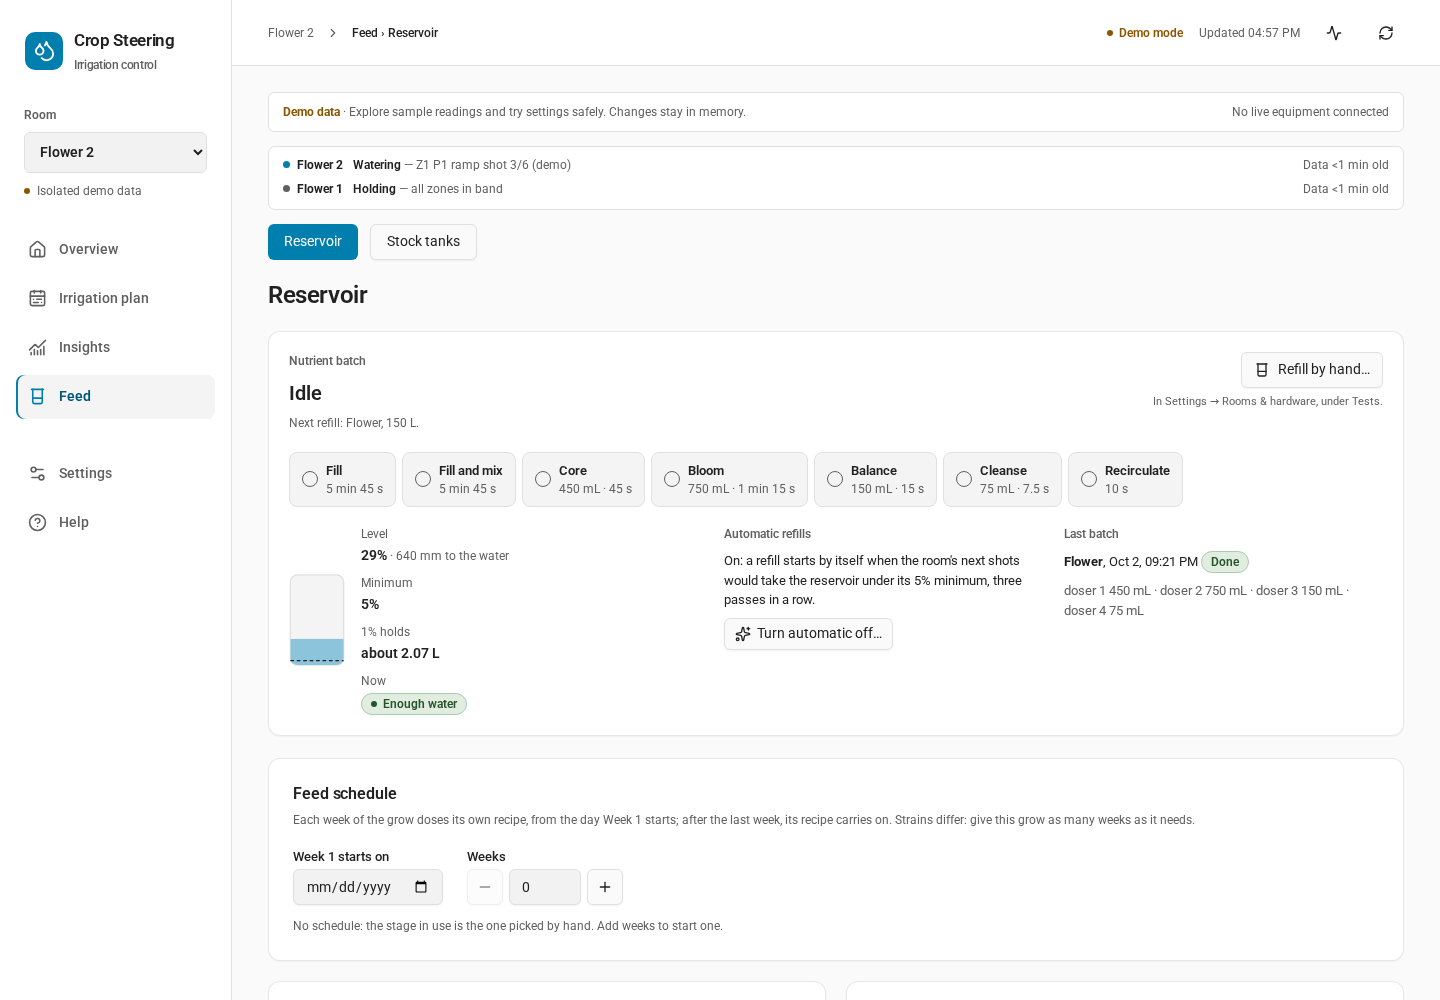
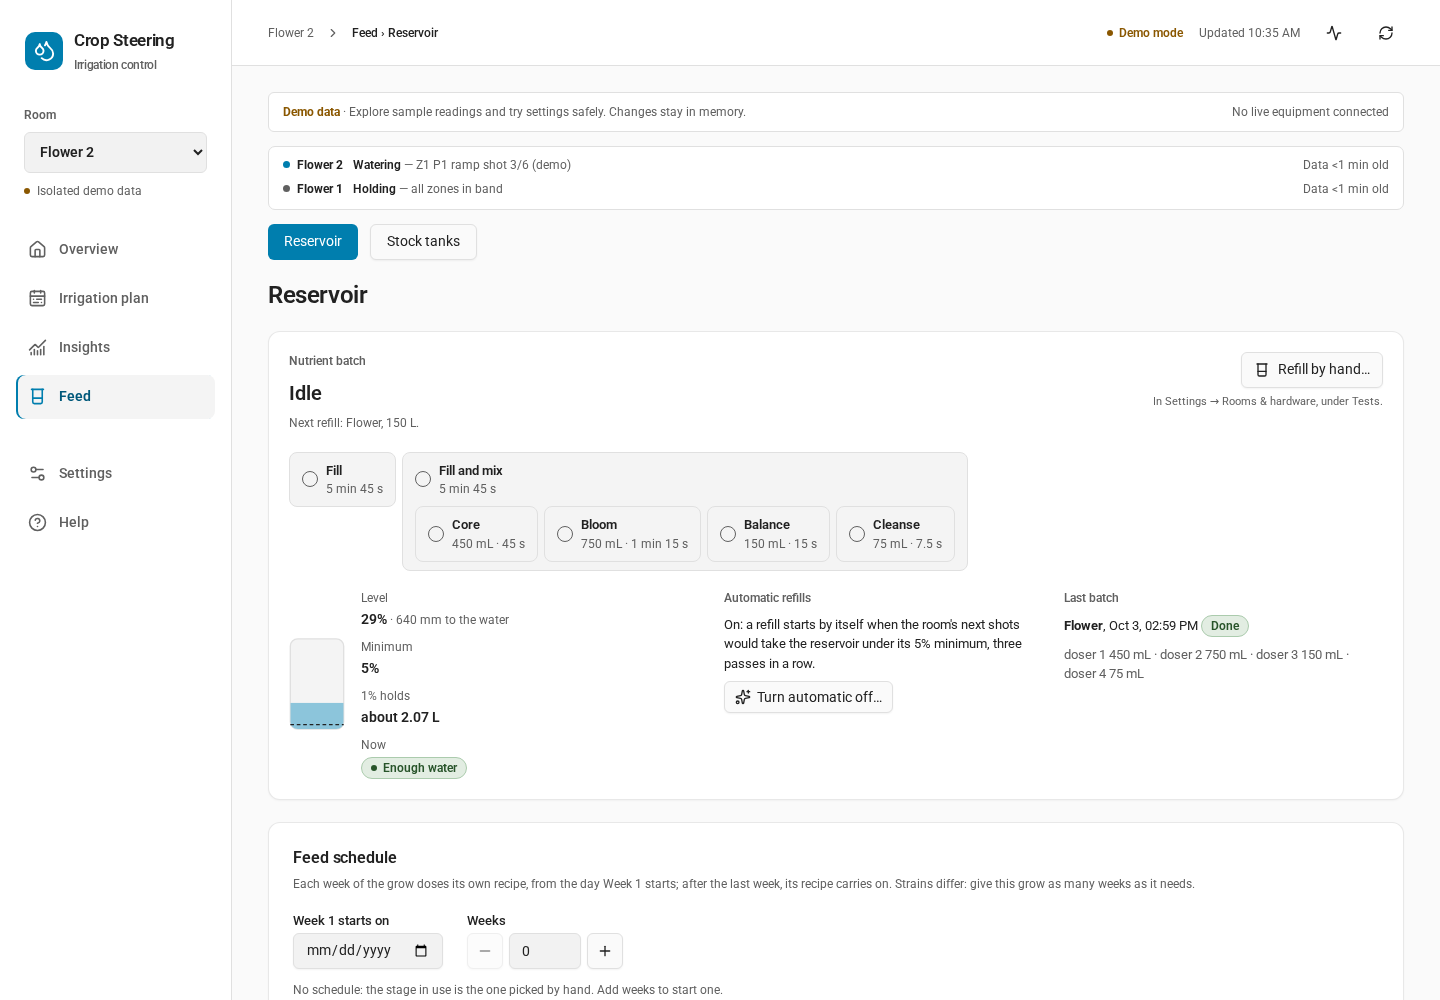
docs: the doses go in while the reservoir fills

diff --git a/docs/USER_GUIDE.md b/docs/USER_GUIDE.md
@@ -174,13 +174,13 @@ At the bottom of **Settings → Rooms & hardware**, **Tests** checks that a room
 **Feed → Reservoir** runs a room's nutrient batches: the controller app refills the room's reservoir with fresh water, mixes it and doses each nutrient in turn, and keeps it from running dry. Each room has its own reservoir and dosers. The tab shows once the room has a reservoir mapped.
 
 1. In **Settings → Rooms & hardware**, map the room's **Reservoir & dosers**: the level sensor (an ultrasonic sensor on the lid, reading the distance down to the water), the fresh-water solenoid, the recirculation solenoid and each doser's power switch, up to six. The room's pump mixes the batch.
-2. On **Reservoir**, set the **batch**: how long the fresh water runs (**Fresh-water fill**, for example 11 min 30 s), the litres that fill adds (**Fill litres**, for example 145 L: the doses are worked out for these, since what is left in the reservoir is already mixed), the level sensor's readings when the reservoir is full and when it is empty (**Distance when full** and **Distance when empty**; **Use the reading now** takes the current one), the **Minimum level** it keeps (5% to start with; 0 turns it off), a pause between dosers and how long it recirculates after the last dose (10 s to start with). The two distances make the level a percentage, worked out as an ESPHome template would: 100% at the distance when full, 0% at the distance when empty.
+2. On **Reservoir**, set the **batch**: how long the fresh water runs (**Fresh-water fill**, for example 11 min 30 s), the litres that fill adds (**Fill litres**, for example 145 L: the doses are worked out for these, since what is left in the reservoir is already mixed), the level sensor's readings when the reservoir is full and when it is empty (**Distance when full** and **Distance when empty**; **Use the reading now** takes the current one), the **Minimum level** it keeps (5% to start with; 0 turns it off), a pause before the first doser and between dosers, and the least it recirculates after the last dose (10 s to start with). The two distances make the level a percentage, worked out as an ESPHome template would: 100% at the distance when full, 0% at the distance when empty.
 3. Under **Dosers**, each doser's flow, 600 mL/min unless you change it, is only used to work out how long it runs for its dose; its speed and calibration stay on the doser.
 4. Add a **feed recipe** for each growth stage. Give each doser the nutrient on it in that stage and its **parts**, the ratio off the nutrient chart: Athena Flower is 3 Core : 5 Bloom : 1 Balance : 0.5 Cleanse. The **mL per litre per part** is the strength; **1 part** is the same set as mL of nutrient in each fill (240 mL in a 145 L fill is 1.655 mL per litre per part), and each sets the other. Each doser then gives its parts × 1 part, to the whole mL: at 1 mL per litre per part in 150 L, Bloom at 5 parts is 750 mL and runs 75 s at 600 mL/min. Each recipe doses in its own order, so a stage can use a doser the others leave out (Fade's doser in place of Core's): drag a row by its handle, or use its arrows; the number beside it is its turn. A new recipe starts with the nutrients and the order the last one had, since the bottles usually stay on their dosers. A recipe coming to more than 60 mL per litre is refused as a likely typo.
 5. Give the grow a **feed schedule**: the day **Week 1 starts on**, how many **weeks** it has (strains differ: a week or three of veg, eight or ten of flower) and each week's recipe, for example Week 1 Vege, Weeks 2–6 Bloom, Weeks 7–8 Fade. The stage in use then changes by itself at midnight as each week starts, and the next refill doses that week's recipe (what is already in the reservoir is not touched). After the last week, its recipe carries on. **Save**.
 6. Without a schedule, choose the **stage in use** by hand. With one running, a stage picked by hand (here, or in Home Assistant's select, which an automation or a dashboard card can change) holds only until the schedule's next week starts; the page says until when. If you don't want the scheduled recipe, remove the schedule: the stage in use stays what it was, picked by hand from then on.
 
-A refill runs: fresh water for its fill time; half-way through, once the level shows it is filling, the recirculation solenoid opens and the pump starts; when the fresh water stops each doser runs for its dose, one after another, a pause apart; then it recirculates a little longer, and the pump stops before the recirculation line closes. The page shows each step as it happens, with the time left, the dose in progress and what the last batch gave, and the level with what 1% of the reservoir holds, which each refill teaches (its fill litres over how far the level rose).
+A refill runs: fresh water for its fill time; half-way through, once the level shows it is filling, the recirculation solenoid opens and the pump starts; a pause later, while the fresh water still runs, each doser runs for its dose, one after another, a pause apart; the tank keeps circulating until the fill time ends, and at least the recirculation time after the last dose; then the pump stops before the recirculation line closes. When the doses fit in the fill's second half, the whole refill takes its fill time. When they do not, the rest go in after the fresh water stops, and the page says so. The page shows each step as it happens, with the time left, the dose in progress and what the last batch gave, and the level with what 1% of the reservoir holds, which each refill teaches (its fill litres over how far the level rose).
 
 - **The minimum.** No shot takes the reservoir under its minimum: a pump that runs it dry loses its prime. With **automatic refills** on, the controller plans ahead: once the room's next round of shots (every zone's next shot, sized by its phase: the next, bigger, ramp shot in P1, P2's maintenance shot once the ramp is done) would take it under the minimum, a refill starts, between shots, after three passes in a row (one bad echo starts nothing). A shot that still would not fit waits for it. Without automatic refills, watering is held there and a notice says so (CS-704) until the reservoir reads enough again. Before the first refill has shown what 1% holds, it goes by the reading alone: under the minimum.
 - **Refill by hand…** opens **Tests** (above), where **Test refill** asks for one; the controller app starts it at its next pass, within a minute, or says why it cannot. A refill must fit: once a refill has shown what 1% holds, the level plus what the fill adds must stay under 100%; before that, one asked for by hand starts only from 10% (or the minimum, if higher). **Run anyway** starts one you have checked fits. A request the app first sees more than 30 minutes later (it was stopped) is not acted on.

diff --git a/docs/ENTITIES.md b/docs/ENTITIES.md
@@ -173,7 +173,7 @@ for that zone. (3 zones × 24 = 72 entities on a 3-zone system.)
 | `p2_vwc_threshold_adjusted` | % | P2 threshold after EC-ratio adjustment. |
 | `stock_low` | - | How many of the room's stock tanks are at or below their low mark (0 when none). Attribute `tanks`: each tank's `name`, `level_l`, `capacity_l`, `percent`, `low_l`, `dose_ml` (what one batch takes now: what the feed recipe in use gives from its doser; 0 on none), `doser` (the Reservoir doser it is on, or null), `batches_left` and `low`. Attribute `last_batch`: the newest batch counted. The tanks are kept by the integration (Feed → Stock tanks, or the `stock_get`, `stock_save` and `stock_refill` services): each is its name, capacity, level, low mark and doser. A tank on a Reservoir doser loses what that doser gave in each batch the controller mixes; one on none changes only when it is refilled or its level is set. Automate a phone alert on it going above 0. |
 | `feed_plan` | - | What the room's next nutrient batch runs, from the Reservoir page: the stage's recipe name, or `none`. Attributes: `stage`, `stage_id`, `fill_s`, `batch_l` (the litres the fill adds), `full_mm` and `empty_mm` (the level sensor's distance to the water when full and when empty; 0 = not set), `min_pct` (the minimum the reservoir keeps; 0 = off), `pause_s`, `mix_s`, `doses` (each `doser`, `label`, `ml`, to the whole mL, and `seconds`, in the order of the stage's recipe) and `problem` (why no batch can run, or null), with the settings' `revision`, and `mix_force_until` (for two minutes after a test refill run anyway, until when; otherwise null). The feed schedule: `week` (its week today, null when none runs), `weeks` (how many it has), `schedule_start` (the day Week 1 starts), `held_until` (until when a stage picked by hand holds over it, or null) and `source` (`schedule`, `held` or `hand`); the sensor is rewritten at Home Assistant's midnight, when a new week may start. The integration keeps the settings (`feed_get` / `feed_save`); the controller app runs batches from this. |
-| `batch_status` | - | Published by the controller app for a room with a reservoir mapped: `idle`, or the step of the refill running (`filling`, then `filling_mixing` from half-way with the pump and recirculation on, `dosing`, `pausing`, `mixing`; an older controller's `settling`). Attributes: `stage`, `until` (when the step ends), `doser` and `nutrient` (while dosing), `doses` (the plan's doses, each with `dosed`: the mL it gave), `level_mm`, `level_pct` (how full, %; both null when the sensor reads nothing: unavailable, unknown or not a number), `full_mm`, `empty_mm`, `min_pct`, `litres_per_pct` (what 1% holds, learned from refills; null before one), `due` (whether the room's next round of shots would take it under its minimum; null when it can't tell), `next_round_l` (that round's litres), `auto`, `armed` (false after an automatic refill until it reads enough again), `last` (`at`, `result`: `done` or `stopped: <why>`, `stage`, `dosed`), `blocked` (why no batch could start now) and `updated`. |
+| `batch_status` | - | Published by the controller app for a room with a reservoir mapped: `idle`, or the step of the refill running (`filling`, then from half-way `filling_mixing` with the pump and recirculation on, for one pause before the first dose, then `dosing`, `pausing`, and `mixing` after the last dose, until the fill's end and at least its recirculation time; an older controller's `settling`). The fresh water runs until the fill's end whatever the step, so the doses go in while it fills. Attributes: `stage`, `until` (when the step ends), `fill_until` (when the fresh water stops; null once it has), `doser` and `nutrient` (while dosing), `doses` (the plan's doses, each with `dosed`: the mL it gave), `level_mm`, `level_pct` (how full, %; both null when the sensor reads nothing: unavailable, unknown or not a number), `full_mm`, `empty_mm`, `min_pct`, `litres_per_pct` (what 1% holds, learned from refills; null before one), `due` (whether the room's next round of shots would take it under its minimum; null when it can't tell), `next_round_l` (that round's litres), `auto`, `armed` (false after an automatic refill until it reads enough again), `last` (`at`, `result`: `done` or `stopped: <why>`, `stage`, `dosed`), `blocked` (why no batch could start now) and `updated`. |
 
 The controller also publishes `sensor.f2_control_vitals`: the time of its last vitals report, with the report in the `vitals` attribute.
 

diff --git a/CHANGELOG.md b/CHANGELOG.md
@@ -9,6 +9,38 @@ notes**, the entity- and code-level detail for developers and AI agents working 
 The format is based on [Keep a Changelog](https://keepachangelog.com/en/1.0.0/),
 and this project adheres to [Semantic Versioning](https://semver.org/spec/v2.0.0.html).
 
+## [Unreleased]
+
+### 🌱 In plain English
+
+- **The nutrients go in while the reservoir fills.** A refill used to run its fresh water for the
+  whole fill time and only then dose each nutrient, so it took the fill time and the doses on top.
+  Now, half-way through the fill, once the pump and recirculation are running, the doses go in one
+  after another while the fresh water still runs, and the tank keeps circulating until the fill ends:
+  a refill is done when its fill time is (11 min 30 s for a 690 s fill). If a recipe's doses take
+  longer than the fill's second half, the rest go in after the fresh water stops, and the Reservoir
+  page says so. On the Reservoir page the doses now sit inside Fill and mix.
+
+### 🔧 Technical notes
+
+- Controller: `_batch_step` switches the fresh water off at the fill's end (`fill_end`, cleared once
+  it reads off) whatever the step. At half-way, `filling_mixing` lasts one `pause_s` before the first
+  dose, and after the last dose `mixing` runs until the fill's end and at least `mix_s`.
+  `batch_timed` (a timed step, or any step while the fresh water runs) decides what holds other
+  rooms' shots and what the between-pass watch checks, and `_sleep_for` also wakes at the fill's end.
+  `_batch_interrupted` and `_batch_stop` keep and switch off the fresh water while it runs, so a
+  refill stopped mid-dose stops it too. `batch_status` gains `fill_until`. No new options; no change
+  to the state file (a refill saved in progress is switched off at the next start, as before).
+- Integration: `feed.py`'s description of a refill.
+- Dashboard: the Reservoir page shows the doses inside Fill and mix, and Recirculate only when the
+  doses outlast the fill, with a line saying so; the settings' help says when the doses go in. The
+  demo's refill starts with the fill's first half.
+- Docs: the user guide's refill; `batch_status` in the entities; the Reservoir screenshot.
+- Tests: the doses go in while the fresh water runs and the refill ends with the fill; doses that
+  outlast the fill go on after the fresh water stops on time, and the loop wakes for it; a refill
+  stopped mid-dose stops the fresh water too; other rooms wait while the fresh water runs, not once
+  the fill has ended; `fill_until` on the status sensor.
+
 ## [2.33.1] - 2026-10-04
 
 Integration and controller **2.33.1**.

diff --git a/addons/f2_control/CHANGELOG.md b/addons/f2_control/CHANGELOG.md
@@ -1,3 +1,7 @@
+# Unreleased
+
+- **The nutrients go in while the reservoir fills.** One pause after the pump and recirculation start half-way through the fill, the doses go in while the fresh water still runs; the fresh water stops at the fill's end whatever the step, and recirculation runs to the fill's end and at least `mix_s` after the last dose. A refill stopped mid-dose stops the fresh water too. `batch_status` gains `fill_until`. **The dashboard the app serves** shows the doses inside Fill and mix. No new options; no change to the state file.
+
 # 2.33.1
 
 Pair with integration 2.33.1.

diff --git a/docs/SCREENSHOTS.md b/docs/SCREENSHOTS.md
@@ -16,7 +16,7 @@ Captured in September 2026 from the compiled application with isolated demo data
 
 ## Feed: Reservoir
 
-![Nutrient batches: a refill's steps, the reservoir level and its minimum, automatic refills and the feed stage in use](../img/reservoir.png)
+![Nutrient batches: a refill's steps (the doses go in while it fills), the reservoir level and its minimum, automatic refills and the feed stage in use](../img/reservoir.png)
 
 ## Feed: Stock tanks
 

diff --git a/custom_components/crop_steering/WHATS_NEW.md b/custom_components/crop_steering/WHATS_NEW.md
@@ -21,6 +21,10 @@ people who build the system:
 `tests/test_whats_new.py` checks the shape and the plain words, and that the newest section is the
 version being released.
 
+## Unreleased
+
+- The nutrients go in while the reservoir fills, so a refill is done when its fill time ends.
+
 ## 2.33.1 - 2026-10-04
 
 - The Tank & pump card charts how full the reservoir has been over the last 12 or 24 hours.
